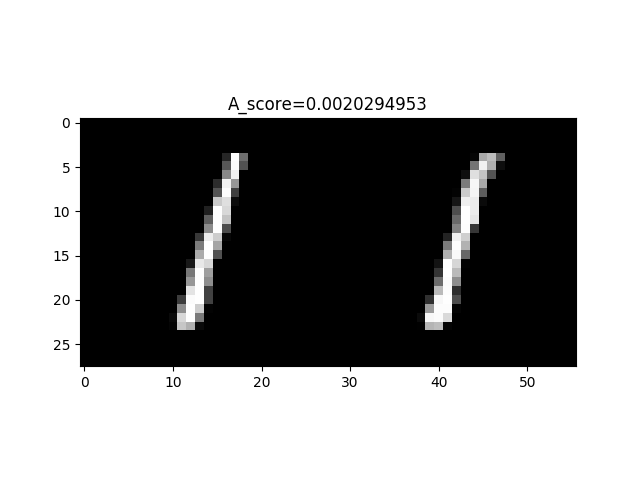
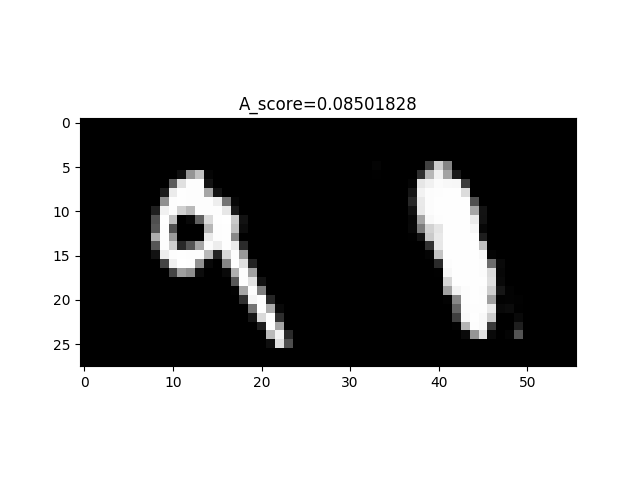
add ACAI init

Changed region(s): [[0.2188, 0.3125, 0.4688, 0.75], [0.625, 0.3125, 0.8125, 0.7188], [0.3438, 0.1875, 0.6562, 0.25]]

diff --git a/Generation/GAN/fAnoGAN/Predictor.py b/Generation/GAN/fAnoGAN/Predictor.py
@@ -24,7 +24,7 @@ else:
     import WGAN.Network.mnist_net as PreNetwork
 
 train_valid, test = mnist.get_mnist(withlabel=True, ndim=3)
-test = [i[0] for i in test  if(i[1]==1)] #ラベル1のみを選択
+test = [i[0] for i in test  if(i[1]==9)] #ラベル1のみを選択
 test = test[0]
 
 gen = PreNetwork.DCGANGenerator(n_hidden=args.n_dimz)

diff --git a/Generation/GAN/fAnoGAN/README.md b/Generation/GAN/fAnoGAN/README.md
@@ -1,0 +1,2 @@
+In Progress ...
+https://www.sciencedirect.com/science/article/pii/S1361841518302640

diff --git a/Generation/AE/ACAI/README.md b/Generation/AE/ACAI/README.md
@@ -1,0 +1,2 @@
+In Progress ...
+https://arxiv.org/abs/1807.07543
